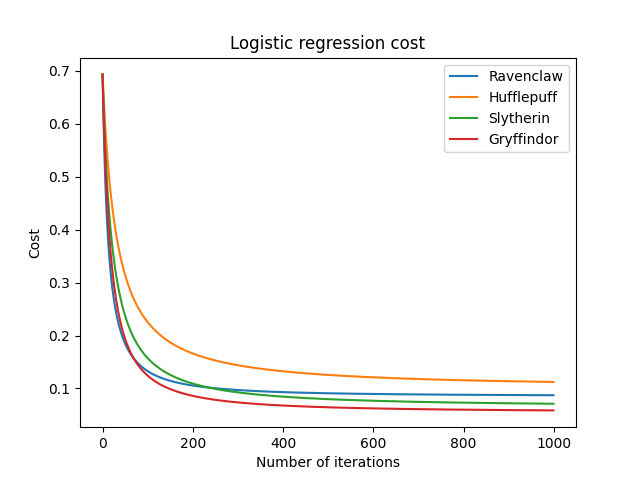
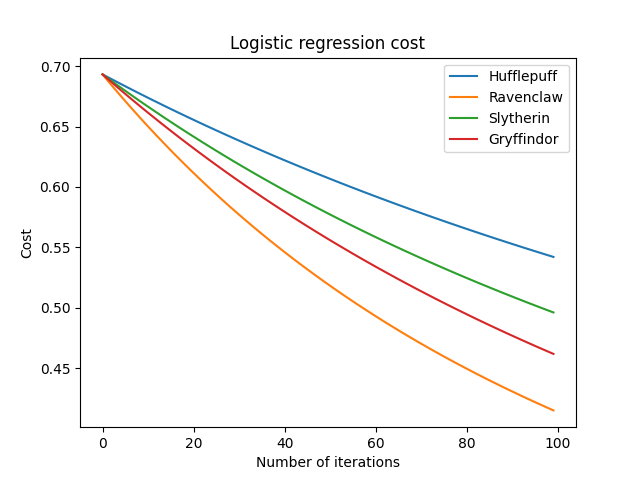
Cleaned files, but prediction always gives 100% accuracy

diff --git a/logreg_train.py b/logreg_train.py
@@ -8,6 +8,7 @@ import time
 from tqdm import tqdm
 import pickle
 from describe import load
+from sklearn import linear_model
 matplotlib.use('Agg')  #Agg backend for non-interactive use
 
 
@@ -28,9 +29,9 @@ def standardization(df: DataFrame, titles: list) -> np.ndarray:
     :return: NumPy array
     """
     X = df[titles].to_numpy()
-    Xmean = X.mean(axis=0)
-    Xstd = X.std(axis=0)
-    X = (X - Xmean) / Xstd
+    X_mean = X.mean(axis=0)
+    X_std = X.std(axis=0)
+    X = (X - X_mean) / X_std
     return X
 
 
@@ -59,8 +60,8 @@ def batch_gd(theta: np.ndarray, intercept: float, X: np.ndarray, y: np.ndarray, 
     :return intercept, cost:
     """
 
-    lr = 0.1
-    n_iters = 1000
+    lr = 0.01
+    n_iters = 100 # to have a bad accuracy, otherwise 1000
     for iter in range(n_iters):
         y_pred = sigmoid(np.dot(X, theta) + intercept)
 
@@ -90,30 +91,27 @@ def mini_batch_gd(theta: np.ndarray, intercept: float, X: np.ndarray, y: np.ndar
     :return intercept, cost:
     """
 
-    lr = 0.01
+    lr = 0.05
     n_iters = 200
     for iter in range(n_iters):
+        n = np.random.randint(0, len(X))
         batch_size = 50
-        total_loss = 0
-        for i in range(0, len(X), batch_size):
-            x_batch = X[i:i + batch_size]
-            y_batch = y[i:i + batch_size]
+        x_batch = X[n:n + batch_size]
+        y_batch = y[n:n + batch_size]
 
-            y_pred = sigmoid(np.dot(x_batch, theta) + intercept)
+        y_pred = sigmoid(np.dot(x_batch, theta) + intercept)
 
-            dw = (1 / len(x_batch)) * np.dot(x_batch.T, (y_pred - y_batch))
-            db = (1 / len(x_batch)) * np.sum(y_pred - y_batch)
+        dw = (1 / len(x_batch)) * np.dot(x_batch.T, (y_pred - y_batch))
+        db = (1 / len(x_batch)) * np.sum(y_pred - y_batch)
 
-            theta -= lr * dw
-            intercept -= lr * db
+        theta -= lr * dw
+        intercept -= lr * db
 
-            loss = (-1 / len(x_batch)) * np.sum(y_batch * np.log(y_pred) + (1 - y_batch) * np.log(1 - y_pred))
-            total_loss += loss
-        avg_loss = total_loss / len(x_batch)
-        cost.append(avg_loss)
+        loss = (-1 / len(x_batch)) * np.sum(y_batch * np.log(y_pred) + (1 - y_batch) * np.log(1 - y_pred))
+        cost.append(loss)
 
         if iter % 50 == 0:
-            print("iter:", iter, "cost:", "{:.2f}".format(avg_loss))
+            print("iter:", iter, "cost:", "{:.2f}".format(loss))
 
     return intercept, cost
 
@@ -129,30 +127,26 @@ def stochastic_gd(theta: np.ndarray, intercept: float, X: np.ndarray, y: np.ndar
     :return intercept, cost:
     """
 
-    lr = 0.001
-    n_iters = 200
+    lr = 0.01
+    n_iters = 500
     for iter in range(n_iters):
-        total_loss = 0
-        for i in range(len(X)):
-            index = np.random.randint(0, len(X))
-            x_i = X[index]
-            y_i = y[index]
+        index = np.random.randint(0, len(X))
+        x_i = X[index]
+        y_i = y[index]
 
-            y_pred = sigmoid(np.dot(x_i, theta) + intercept)
+        y_pred = sigmoid(np.dot(x_i, theta) + intercept)
 
-            dw = x_i * (y_pred - y_i)
-            db = y_pred - y_i
+        dw = np.dot(x_i.T, (y_pred - y_i))
+        db = y_pred - y_i
 
-            theta -= lr * dw
-            intercept -= lr * db
+        theta -= lr * dw
+        intercept -= lr * db
 
-            loss = -(y_i * np.log(y_pred) + (1 - y_i) * np.log(1 - y_pred))
-            total_loss += loss
-        avg_loss = total_loss / len(X)
-        cost.append(avg_loss)
+        loss = -(y_i * np.log(y_pred) + (1 - y_i) * np.log(1 - y_pred))
+        cost.append(loss)
 
-        if iter % 50 == 0:
-            print("iter:", iter, "cost:", "{:.2f}".format(avg_loss))
+        if iter % 100 == 0:
+            print("iter:", iter, "cost:", "{:.2f}".format(loss))
 
     return intercept, cost
 

diff --git a/logreg_predict.py b/logreg_predict.py
@@ -27,8 +27,18 @@ def accuracy_calc(df: DataFrame, df_predict: DataFrame):
     :param df: DataFrame
     :return: float
     """
+    accuracy = 0
+    df.to_csv("truth.csv", columns=["Index", "Hogwarts House"],
+                      index=False)
+    for i in range(len(df)):
+        if df['Hogwarts House'][i] == df_predict['Hogwarts House'][i]:
+            accuracy = accuracy + 1
+        else:
+            print(f"Diff line {i + 2}, index = {i}\n'{df_predict['Hogwarts House'][i]}' instead of ")
+    # accuracy = accuracy / len(df)
     accuracy = sklearn.metrics.accuracy_score(df['Hogwarts House'], df_predict['Hogwarts House'])
     print(f"Accuracy with sklearn library: {accuracy:.3f}\n")
+
     return
 
 
@@ -40,9 +50,9 @@ def standardization(df: DataFrame, titles: list) -> np.ndarray:
     :return: NumPy array
     """
     X = df[titles].to_numpy()
-    Xmean = X.mean(axis=0)
-    Xstd = X.std(axis=0)
-    X = (X - Xmean) / Xstd
+    X_mean = X.mean(axis=0)
+    X_std = X.std(axis=0)
+    X = (X - X_mean) / X_std
     return X
 
 
@@ -71,13 +81,11 @@ def ft_predict(df: DataFrame, thetas: dict, titles: list) -> DataFrame:
     # Save results in a dict for each house
     results = {house: sigmoid(np.dot(X, thetas[house][1:]) +
                             thetas[house][0]) for house in houses}
-
     # fill df['Hogwarts House'] with house having highest result
     df['Hogwarts House'] = [max(results, key=lambda house:
     results[house][i]) for i in range(len(df))]
 
-    print(f"{df['Hogwarts House']}\n")
-    df.insert(0, "Index", df.index)
+    # df.insert(0, "Index", df.index)
     return df
 
 
@@ -103,13 +111,14 @@ def main():
             'Transfiguration',
             'Charms',
         ]
-        df = df.iloc[:, 6:]
+        # df = df.iloc[:, 6:]
         clean_data(df, titles)
         print(df)
         thetas = load_thetas(sys.argv[2])
         df_predict = ft_predict(df, thetas, titles)
         df_predict.to_csv("houses_st.csv", columns=["Index", "Hogwarts House"],
                   index=False)
+        print("\nPredictions done and saved in houses_st.csv\n")
         if sys.argv[1] == "test_data.csv":
             accuracy_calc(df, df_predict)
 

diff --git a/README.md b/README.md
@@ -102,3 +102,5 @@ https://machinelearningmastery.com/understand-the-dynamics-of-learning-rate-on-d
 https://prasad07143.medium.com/variants-of-gradient-descent-and-their-implementation-in-python-from-scratch-2b3cceb7a1a0
 
 https://www.geeksforgeeks.org/principal-component-analysis-pca/
+
+https://www.geeksforgeeks.org/gradient-descent-algorithm-and-its-variants/
